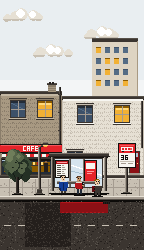
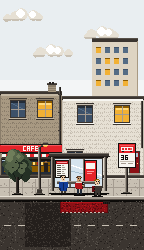
Paint on the road, and a prune that reports when time runs out
Two things, both about something that was there but not readable.

**The bus bay was a stain.** It was a rect of `*`, a thirty-two percent red. One
cell of this canvas holds one colour, so painting it did not tint the asphalt —
it replaced it, and a translucent red over nothing composites against the page
rather than against the road. The bay came out as a flat pale pink slab with no
texture, lying on the carriageway exactly like the stain it looked like. It is
laid down in the road-paint ramp at full opacity now and given its texture back
with the same speckle the asphalt gets, so the surface reads through the colour,
with worn white dashes along the kerb edge.

**A prune killed by the clock reported nothing.** The report is written after the
delete loop and the workflow step carries a 45-minute limit, so the run that did
the most work would be the one that said none of it — the same "evidence that
technically exists" problem as a report printed where the log cannot reach. The
script owns a deadline of its own now, under the step's, and stops on its own
terms: `stoppedBecause` says whether it finished, spent its budget, or hit the
per-run cap, and the report is written either way.

Run 39 is what prompted that. Its retention step has been deleting for 39 minutes
without finishing 20,000 objects, which already says the delete rate is well under
what a pool ought to give — the number `deletesPerSecond` exists to capture is the
one this run was going to lose.
[…]

Changed region(s): [[0.4167, 0.812, 0.75, 0.868]]

diff --git a/pipelines/static-network/run-prune.ts b/pipelines/static-network/run-prune.ts
@@ -52,6 +52,19 @@ const FREE_STORAGE_BYTES = 10 * 1024 * 1024 * 1024;
 const DELETE_CONCURRENCY = Number(process.env.PRUNE_DELETE_CONCURRENCY ?? "16");
 const MAX_DELETES_PER_RUN = Number(process.env.PRUNE_MAX_DELETES ?? "20000");
 
+/**
+ * How long a run will spend deleting before it stops and writes its report.
+ *
+ * The count cap alone was not enough. The step carries a wall-clock limit as well, and a step
+ * killed by that limit is killed in the middle of the loop — so the run that did the most work
+ * would be the one that reported none of it, which is the same "evidence that technically exists"
+ * problem as a report printed where the log cannot reach. A deadline the script owns lets it stop
+ * on its own terms and say what it did.
+ *
+ * Under the step's 45 minutes, so the script always wins the race.
+ */
+const TIME_BUDGET_MS = Number(process.env.PRUNE_TIME_BUDGET_MS ?? String(35 * 60 * 1000));
+
 function report(body: Record<string, unknown>): void {
   body.finishedAt = new Date().toISOString();
   writeFileSync("prune-report.json", JSON.stringify(body, null, 2));
@@ -176,6 +189,7 @@ async function main(): Promise<number> {
     remainingAfterRun: 0,
     deletesPerSecond: 0,
     complete: true,
+    stoppedBecause: "nothing to remove",
   };
 
   console.log(
@@ -196,7 +210,14 @@ async function main(): Promise<number> {
   let deleted = 0;
   const startedAt = Date.now();
 
+  const deadline = startedAt + TIME_BUDGET_MS;
+  let ranOutOfTime = false;
+
   await mapWithConcurrency(batch, DELETE_CONCURRENCY, async (key) => {
+    if (Date.now() >= deadline) {
+      ranOutOfTime = true;
+      return;
+    }
     try {
       await store.delete(key);
       deleted += 1;
@@ -212,6 +233,11 @@ async function main(): Promise<number> {
   summary.remainingAfterRun = doomed.length - deleted;
   summary.deletesPerSecond = Number((deleted / seconds).toFixed(2));
   summary.complete = summary.remainingAfterRun === 0;
+  summary.stoppedBecause = summary.complete
+    ? "nothing left to remove"
+    : ranOutOfTime
+      ? "time budget spent"
+      : "per-run cap reached";
 
   console.log(
     `Deleted ${deleted} of ${batch.length} attempted (${doomed.length} removable); ` +
@@ -219,8 +245,8 @@ async function main(): Promise<number> {
   );
   if (!summary.complete) {
     console.log(
-      `${summary.remainingAfterRun} object(s) still removable. Run the retention job again to ` +
-        `continue; it resumes from the oldest version that is left.`,
+      `${summary.remainingAfterRun} object(s) still removable (${summary.stoppedBecause}). Run ` +
+        `the retention job again to continue; it resumes from the oldest version that is left.`,
     );
   }
   report(summary);
